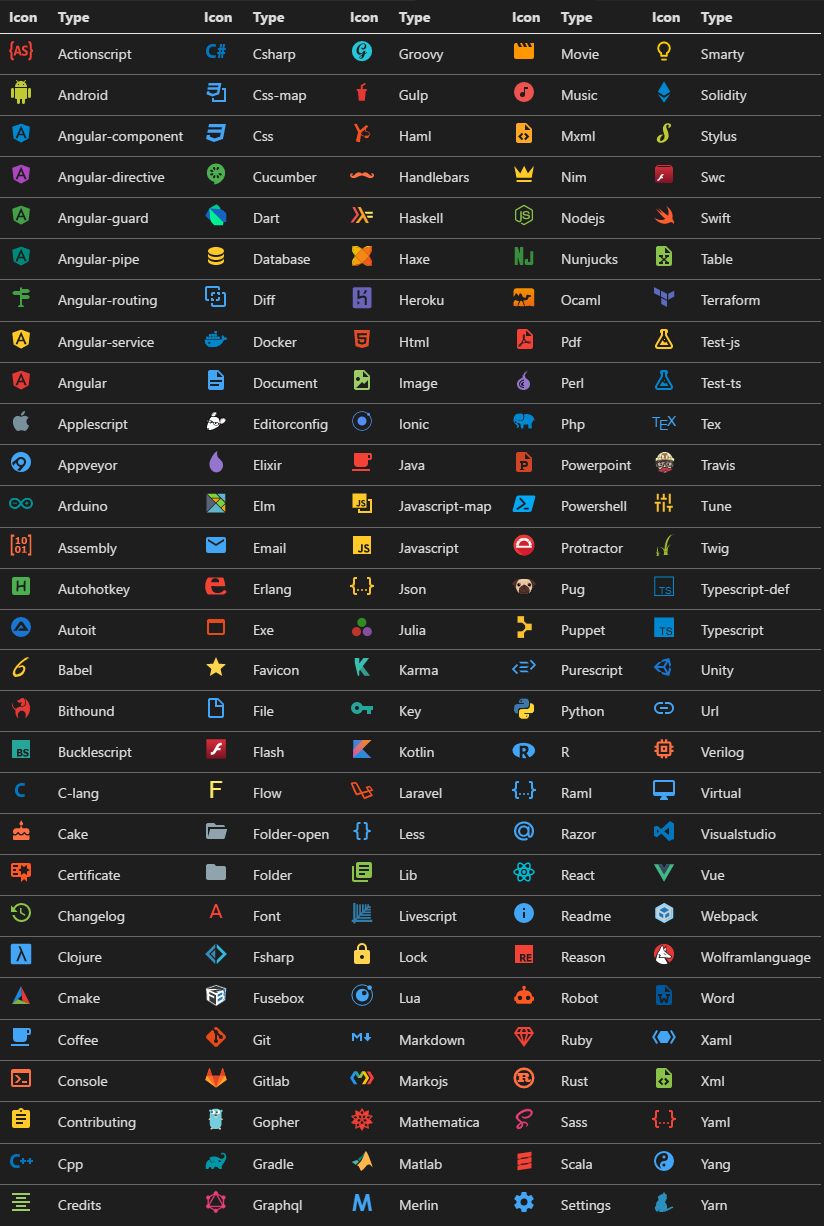
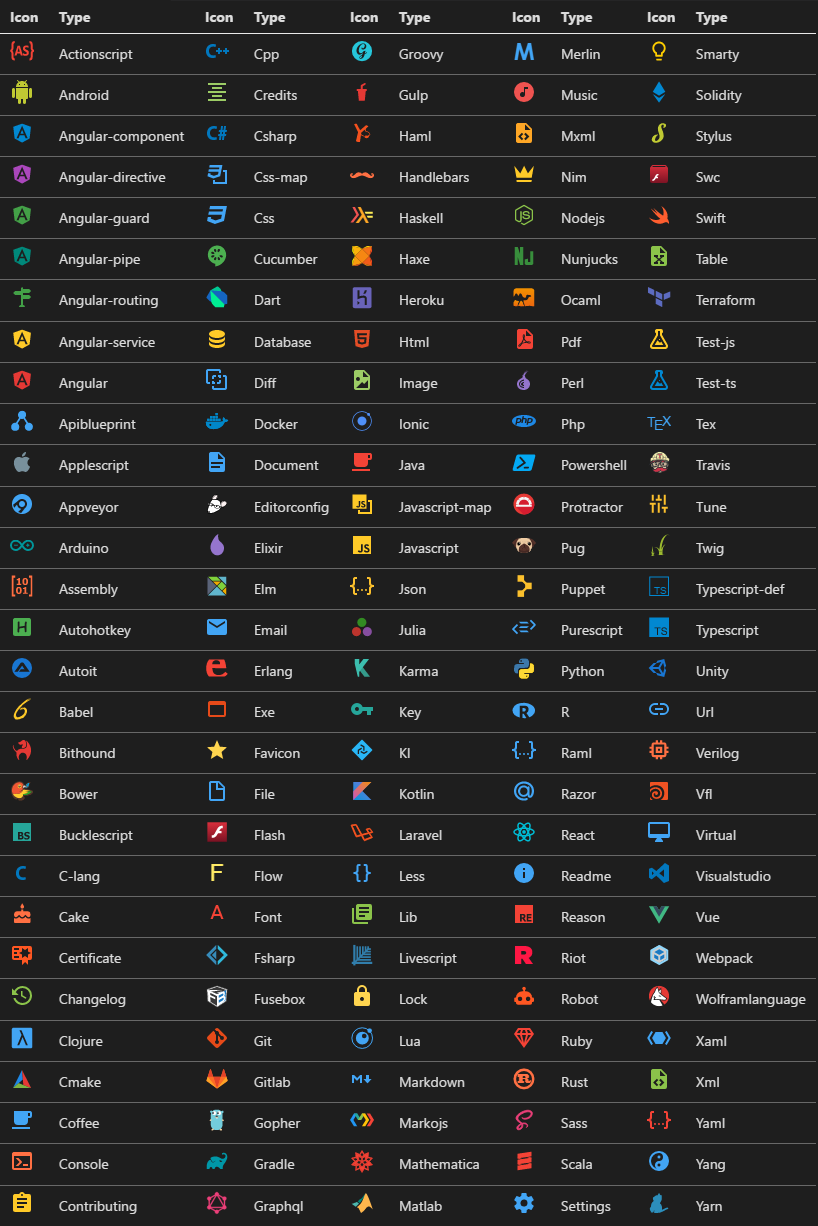
updated readme

diff --git a/images/lang-icons.md b/images/lang-icons.md
@@ -1,31 +1,31 @@
 |Icon|Type|Icon|Type|Icon|Type|Icon|Type|Icon|Type|
 |---|---|---|---|---|---|---|---|---|---|
-|<img src="./../icons/actionscript.svg" width="24px">|Actionscript|<img src="./../icons/cpp.svg" width="24px">|Cpp|<img src="./../icons/groovy.svg" width="24px">|Groovy|<img src="./../icons/merlin.svg" width="24px">|Merlin|<img src="./../icons/scala.svg" width="24px">|Scala|
-|<img src="./../icons/android.svg" width="24px">|Android|<img src="./../icons/credits.svg" width="24px">|Credits|<img src="./../icons/gulp.svg" width="24px">|Gulp|<img src="./../icons/movie.svg" width="24px">|Movie|<img src="./../icons/settings.svg" width="24px">|Settings|
-|<img src="./../icons/angular-component.svg" width="24px">|Angular-component|<img src="./../icons/csharp.svg" width="24px">|Csharp|<img src="./../icons/haml.svg" width="24px">|Haml|<img src="./../icons/music.svg" width="24px">|Music|<img src="./../icons/smarty.svg" width="24px">|Smarty|
-|<img src="./../icons/angular-directive.svg" width="24px">|Angular-directive|<img src="./../icons/css-map.svg" width="24px">|Css-map|<img src="./../icons/handlebars.svg" width="24px">|Handlebars|<img src="./../icons/mxml.svg" width="24px">|Mxml|<img src="./../icons/solidity.svg" width="24px">|Solidity|
-|<img src="./../icons/angular-guard.svg" width="24px">|Angular-guard|<img src="./../icons/css.svg" width="24px">|Css|<img src="./../icons/haskell.svg" width="24px">|Haskell|<img src="./../icons/nim.svg" width="24px">|Nim|<img src="./../icons/stylus.svg" width="24px">|Stylus|
-|<img src="./../icons/angular-pipe.svg" width="24px">|Angular-pipe|<img src="./../icons/cucumber.svg" width="24px">|Cucumber|<img src="./../icons/haxe.svg" width="24px">|Haxe|<img src="./../icons/nodejs.svg" width="24px">|Nodejs|<img src="./../icons/swc.svg" width="24px">|Swc|
-|<img src="./../icons/angular-routing.svg" width="24px">|Angular-routing|<img src="./../icons/dart.svg" width="24px">|Dart|<img src="./../icons/heroku.svg" width="24px">|Heroku|<img src="./../icons/nunjucks.svg" width="24px">|Nunjucks|<img src="./../icons/swift.svg" width="24px">|Swift|
-|<img src="./../icons/angular-service.svg" width="24px">|Angular-service|<img src="./../icons/database.svg" width="24px">|Database|<img src="./../icons/html.svg" width="24px">|Html|<img src="./../icons/ocaml.svg" width="24px">|Ocaml|<img src="./../icons/table.svg" width="24px">|Table|
-|<img src="./../icons/angular.svg" width="24px">|Angular|<img src="./../icons/diff.svg" width="24px">|Diff|<img src="./../icons/image.svg" width="24px">|Image|<img src="./../icons/pdf.svg" width="24px">|Pdf|<img src="./../icons/terraform.svg" width="24px">|Terraform|
-|<img src="./../icons/apiblueprint.svg" width="24px">|Apiblueprint|<img src="./../icons/docker.svg" width="24px">|Docker|<img src="./../icons/ionic.svg" width="24px">|Ionic|<img src="./../icons/perl.svg" width="24px">|Perl|<img src="./../icons/test-js.svg" width="24px">|Test-js|
-|<img src="./../icons/applescript.svg" width="24px">|Applescript|<img src="./../icons/document.svg" width="24px">|Document|<img src="./../icons/java.svg" width="24px">|Java|<img src="./../icons/php.svg" width="24px">|Php|<img src="./../icons/test-ts.svg" width="24px">|Test-ts|
-|<img src="./../icons/appveyor.svg" width="24px">|Appveyor|<img src="./../icons/editorconfig.svg" width="24px">|Editorconfig|<img src="./../icons/javascript-map.svg" width="24px">|Javascript-map|<img src="./../icons/powerpoint.svg" width="24px">|Powerpoint|<img src="./../icons/tex.svg" width="24px">|Tex|
-|<img src="./../icons/arduino.svg" width="24px">|Arduino|<img src="./../icons/elixir.svg" width="24px">|Elixir|<img src="./../icons/javascript.svg" width="24px">|Javascript|<img src="./../icons/powershell.svg" width="24px">|Powershell|<img src="./../icons/travis.svg" width="24px">|Travis|
-|<img src="./../icons/assembly.svg" width="24px">|Assembly|<img src="./../icons/elm.svg" width="24px">|Elm|<img src="./../icons/json.svg" width="24px">|Json|<img src="./../icons/protractor.svg" width="24px">|Protractor|<img src="./../icons/tune.svg" width="24px">|Tune|
-|<img src="./../icons/autohotkey.svg" width="24px">|Autohotkey|<img src="./../icons/email.svg" width="24px">|Email|<img src="./../icons/julia.svg" width="24px">|Julia|<img src="./../icons/pug.svg" width="24px">|Pug|<img src="./../icons/twig.svg" width="24px">|Twig|
-|<img src="./../icons/autoit.svg" width="24px">|Autoit|<img src="./../icons/erlang.svg" width="24px">|Erlang|<img src="./../icons/karma.svg" width="24px">|Karma|<img src="./../icons/puppet.svg" width="24px">|Puppet|<img src="./../icons/typescript-def.svg" width="24px">|Typescript-def|
-|<img src="./../icons/babel.svg" width="24px">|Babel|<img src="./../icons/exe.svg" width="24px">|Exe|<img src="./../icons/key.svg" width="24px">|Key|<img src="./../icons/purescript.svg" width="24px">|Purescript|<img src="./../icons/typescript.svg" width="24px">|Typescript|
-|<img src="./../icons/bithound.svg" width="24px">|Bithound|<img src="./../icons/favicon.svg" width="24px">|Favicon|<img src="./../icons/kl.svg" width="24px">|Kl|<img src="./../icons/python.svg" width="24px">|Python|<img src="./../icons/unity.svg" width="24px">|Unity|
-|<img src="./../icons/bower.svg" width="24px">|Bower|<img src="./../icons/file.svg" width="24px">|File|<img src="./../icons/kotlin.svg" width="24px">|Kotlin|<img src="./../icons/r.svg" width="24px">|R|<img src="./../icons/url.svg" width="24px">|Url|
-|<img src="./../icons/bucklescript.svg" width="24px">|Bucklescript|<img src="./../icons/flash.svg" width="24px">|Flash|<img src="./../icons/laravel.svg" width="24px">|Laravel|<img src="./../icons/raml.svg" width="24px">|Raml|<img src="./../icons/verilog.svg" width="24px">|Verilog|
-|<img src="./../icons/c-lang.svg" width="24px">|C-lang|<img src="./../icons/flow.svg" width="24px">|Flow|<img src="./../icons/less.svg" width="24px">|Less|<img src="./../icons/razor.svg" width="24px">|Razor|<img src="./../icons/vfl.svg" width="24px">|Vfl|
-|<img src="./../icons/cake.svg" width="24px">|Cake|<img src="./../icons/font.svg" width="24px">|Font|<img src="./../icons/lib.svg" width="24px">|Lib|<img src="./../icons/react.svg" width="24px">|React|<img src="./../icons/virtual.svg" width="24px">|Virtual|
-|<img src="./../icons/certificate.svg" width="24px">|Certificate|<img src="./../icons/fsharp.svg" width="24px">|Fsharp|<img src="./../icons/livescript.svg" width="24px">|Livescript|<img src="./../icons/readme.svg" width="24px">|Readme|<img src="./../icons/visualstudio.svg" width="24px">|Visualstudio|
-|<img src="./../icons/changelog.svg" width="24px">|Changelog|<img src="./../icons/fusebox.svg" width="24px">|Fusebox|<img src="./../icons/lock.svg" width="24px">|Lock|<img src="./../icons/reason.svg" width="24px">|Reason|<img src="./../icons/vue.svg" width="24px">|Vue|
-|<img src="./../icons/clojure.svg" width="24px">|Clojure|<img src="./../icons/git.svg" width="24px">|Git|<img src="./../icons/lua.svg" width="24px">|Lua|<img src="./../icons/riot.svg" width="24px">|Riot|<img src="./../icons/webpack.svg" width="24px">|Webpack|
-|<img src="./../icons/cmake.svg" width="24px">|Cmake|<img src="./../icons/gitlab.svg" width="24px">|Gitlab|<img src="./../icons/markdown.svg" width="24px">|Markdown|<img src="./../icons/robot.svg" width="24px">|Robot|<img src="./../icons/wolframlanguage.svg" width="24px">|Wolframlanguage|
-|<img src="./../icons/coffee.svg" width="24px">|Coffee|<img src="./../icons/gopher.svg" width="24px">|Gopher|<img src="./../icons/markojs.svg" width="24px">|Markojs|<img src="./../icons/ruby.svg" width="24px">|Ruby|<img src="./../icons/word.svg" width="24px">|Word|
-|<img src="./../icons/console.svg" width="24px">|Console|<img src="./../icons/gradle.svg" width="24px">|Gradle|<img src="./../icons/mathematica.svg" width="24px">|Mathematica|<img src="./../icons/rust.svg" width="24px">|Rust|<img src="./../icons/xaml.svg" width="24px">|Xaml|
-|<img src="./../icons/contributing.svg" width="24px">|Contributing|<img src="./../icons/graphql.svg" width="24px">|Graphql|<img src="./../icons/matlab.svg" width="24px">|Matlab|<img src="./../icons/sass.svg" width="24px">|Sass|<img src="./../icons/xml.svg" width="24px">|Xml|
+|<img src="./../icons/actionscript.svg" width="24px">|Actionscript|<img src="./../icons/cpp.svg" width="24px">|Cpp|<img src="./../icons/groovy.svg" width="24px">|Groovy|<img src="./../icons/merlin.svg" width="24px">|Merlin|<img src="./../icons/smarty.svg" width="24px">|Smarty|
+|<img src="./../icons/android.svg" width="24px">|Android|<img src="./../icons/credits.svg" width="24px">|Credits|<img src="./../icons/gulp.svg" width="24px">|Gulp|<img src="./../icons/music.svg" width="24px">|Music|<img src="./../icons/solidity.svg" width="24px">|Solidity|
+|<img src="./../icons/angular-component.svg" width="24px">|Angular-component|<img src="./../icons/csharp.svg" width="24px">|Csharp|<img src="./../icons/haml.svg" width="24px">|Haml|<img src="./../icons/mxml.svg" width="24px">|Mxml|<img src="./../icons/stylus.svg" width="24px">|Stylus|
+|<img src="./../icons/angular-directive.svg" width="24px">|Angular-directive|<img src="./../icons/css-map.svg" width="24px">|Css-map|<img src="./../icons/handlebars.svg" width="24px">|Handlebars|<img src="./../icons/nim.svg" width="24px">|Nim|<img src="./../icons/swc.svg" width="24px">|Swc|
+|<img src="./../icons/angular-guard.svg" width="24px">|Angular-guard|<img src="./../icons/css.svg" width="24px">|Css|<img src="./../icons/haskell.svg" width="24px">|Haskell|<img src="./../icons/nodejs.svg" width="24px">|Nodejs|<img src="./../icons/swift.svg" width="24px">|Swift|
+|<img src="./../icons/angular-pipe.svg" width="24px">|Angular-pipe|<img src="./../icons/cucumber.svg" width="24px">|Cucumber|<img src="./../icons/haxe.svg" width="24px">|Haxe|<img src="./../icons/nunjucks.svg" width="24px">|Nunjucks|<img src="./../icons/table.svg" width="24px">|Table|
+|<img src="./../icons/angular-routing.svg" width="24px">|Angular-routing|<img src="./../icons/dart.svg" width="24px">|Dart|<img src="./../icons/heroku.svg" width="24px">|Heroku|<img src="./../icons/ocaml.svg" width="24px">|Ocaml|<img src="./../icons/terraform.svg" width="24px">|Terraform|
+|<img src="./../icons/angular-service.svg" width="24px">|Angular-service|<img src="./../icons/database.svg" width="24px">|Database|<img src="./../icons/html.svg" width="24px">|Html|<img src="./../icons/pdf.svg" width="24px">|Pdf|<img src="./../icons/test-js.svg" width="24px">|Test-js|
+|<img src="./../icons/angular.svg" width="24px">|Angular|<img src="./../icons/diff.svg" width="24px">|Diff|<img src="./../icons/image.svg" width="24px">|Image|<img src="./../icons/perl.svg" width="24px">|Perl|<img src="./../icons/test-ts.svg" width="24px">|Test-ts|
+|<img src="./../icons/apiblueprint.svg" width="24px">|Apiblueprint|<img src="./../icons/docker.svg" width="24px">|Docker|<img src="./../icons/ionic.svg" width="24px">|Ionic|<img src="./../icons/php.svg" width="24px">|Php|<img src="./../icons/tex.svg" width="24px">|Tex|
+|<img src="./../icons/applescript.svg" width="24px">|Applescript|<img src="./../icons/document.svg" width="24px">|Document|<img src="./../icons/java.svg" width="24px">|Java|<img src="./../icons/powershell.svg" width="24px">|Powershell|<img src="./../icons/travis.svg" width="24px">|Travis|
+|<img src="./../icons/appveyor.svg" width="24px">|Appveyor|<img src="./../icons/editorconfig.svg" width="24px">|Editorconfig|<img src="./../icons/javascript-map.svg" width="24px">|Javascript-map|<img src="./../icons/protractor.svg" width="24px">|Protractor|<img src="./../icons/tune.svg" width="24px">|Tune|
+|<img src="./../icons/arduino.svg" width="24px">|Arduino|<img src="./../icons/elixir.svg" width="24px">|Elixir|<img src="./../icons/javascript.svg" width="24px">|Javascript|<img src="./../icons/pug.svg" width="24px">|Pug|<img src="./../icons/twig.svg" width="24px">|Twig|
+|<img src="./../icons/assembly.svg" width="24px">|Assembly|<img src="./../icons/elm.svg" width="24px">|Elm|<img src="./../icons/json.svg" width="24px">|Json|<img src="./../icons/puppet.svg" width="24px">|Puppet|<img src="./../icons/typescript-def.svg" width="24px">|Typescript-def|
+|<img src="./../icons/autohotkey.svg" width="24px">|Autohotkey|<img src="./../icons/email.svg" width="24px">|Email|<img src="./../icons/julia.svg" width="24px">|Julia|<img src="./../icons/purescript.svg" width="24px">|Purescript|<img src="./../icons/typescript.svg" width="24px">|Typescript|
+|<img src="./../icons/autoit.svg" width="24px">|Autoit|<img src="./../icons/erlang.svg" width="24px">|Erlang|<img src="./../icons/karma.svg" width="24px">|Karma|<img src="./../icons/python.svg" width="24px">|Python|<img src="./../icons/unity.svg" width="24px">|Unity|
+|<img src="./../icons/babel.svg" width="24px">|Babel|<img src="./../icons/exe.svg" width="24px">|Exe|<img src="./../icons/key.svg" width="24px">|Key|<img src="./../icons/r.svg" width="24px">|R|<img src="./../icons/url.svg" width="24px">|Url|
+|<img src="./../icons/bithound.svg" width="24px">|Bithound|<img src="./../icons/favicon.svg" width="24px">|Favicon|<img src="./../icons/kl.svg" width="24px">|Kl|<img src="./../icons/raml.svg" width="24px">|Raml|<img src="./../icons/verilog.svg" width="24px">|Verilog|
+|<img src="./../icons/bower.svg" width="24px">|Bower|<img src="./../icons/file.svg" width="24px">|File|<img src="./../icons/kotlin.svg" width="24px">|Kotlin|<img src="./../icons/razor.svg" width="24px">|Razor|<img src="./../icons/vfl.svg" width="24px">|Vfl|
+|<img src="./../icons/bucklescript.svg" width="24px">|Bucklescript|<img src="./../icons/flash.svg" width="24px">|Flash|<img src="./../icons/laravel.svg" width="24px">|Laravel|<img src="./../icons/react.svg" width="24px">|React|<img src="./../icons/virtual.svg" width="24px">|Virtual|
+|<img src="./../icons/c-lang.svg" width="24px">|C-lang|<img src="./../icons/flow.svg" width="24px">|Flow|<img src="./../icons/less.svg" width="24px">|Less|<img src="./../icons/readme.svg" width="24px">|Readme|<img src="./../icons/visualstudio.svg" width="24px">|Visualstudio|
+|<img src="./../icons/cake.svg" width="24px">|Cake|<img src="./../icons/font.svg" width="24px">|Font|<img src="./../icons/lib.svg" width="24px">|Lib|<img src="./../icons/reason.svg" width="24px">|Reason|<img src="./../icons/vue.svg" width="24px">|Vue|
+|<img src="./../icons/certificate.svg" width="24px">|Certificate|<img src="./../icons/fsharp.svg" width="24px">|Fsharp|<img src="./../icons/livescript.svg" width="24px">|Livescript|<img src="./../icons/riot.svg" width="24px">|Riot|<img src="./../icons/webpack.svg" width="24px">|Webpack|
+|<img src="./../icons/changelog.svg" width="24px">|Changelog|<img src="./../icons/fusebox.svg" width="24px">|Fusebox|<img src="./../icons/lock.svg" width="24px">|Lock|<img src="./../icons/robot.svg" width="24px">|Robot|<img src="./../icons/wolframlanguage.svg" width="24px">|Wolframlanguage|
+|<img src="./../icons/clojure.svg" width="24px">|Clojure|<img src="./../icons/git.svg" width="24px">|Git|<img src="./../icons/lua.svg" width="24px">|Lua|<img src="./../icons/ruby.svg" width="24px">|Ruby|<img src="./../icons/xaml.svg" width="24px">|Xaml|
+|<img src="./../icons/cmake.svg" width="24px">|Cmake|<img src="./../icons/gitlab.svg" width="24px">|Gitlab|<img src="./../icons/markdown.svg" width="24px">|Markdown|<img src="./../icons/rust.svg" width="24px">|Rust|<img src="./../icons/xml.svg" width="24px">|Xml|
+|<img src="./../icons/coffee.svg" width="24px">|Coffee|<img src="./../icons/gopher.svg" width="24px">|Gopher|<img src="./../icons/markojs.svg" width="24px">|Markojs|<img src="./../icons/sass.svg" width="24px">|Sass|<img src="./../icons/yaml.svg" width="24px">|Yaml|
+|<img src="./../icons/console.svg" width="24px">|Console|<img src="./../icons/gradle.svg" width="24px">|Gradle|<img src="./../icons/mathematica.svg" width="24px">|Mathematica|<img src="./../icons/scala.svg" width="24px">|Scala|<img src="./../icons/yang.svg" width="24px">|Yang|
+|<img src="./../icons/contributing.svg" width="24px">|Contributing|<img src="./../icons/graphql.svg" width="24px">|Graphql|<img src="./../icons/matlab.svg" width="24px">|Matlab|<img src="./../icons/settings.svg" width="24px">|Settings|<img src="./../icons/yarn.svg" width="24px">|Yarn|

diff --git a/README.md b/README.md
@@ -11,7 +11,19 @@
 
 The Material Icon Theme provides lots of icons based on Material Design for Visual Studio Code.
 
-![Icon set](https://raw.githubusercontent.com/PKief/vscode-material-icon-theme/master/images/iconset.png)
+### Language icons
+
+![Folder icons](https://raw.githubusercontent.com/PKief/vscode-material-icon-theme/master/images/lang-icons.png)
+
+### Folder icons
+
+![Folder icons](https://raw.githubusercontent.com/PKief/vscode-material-icon-theme/master/images/folder-icons.png)
+
+You have the possibility to change the folder icons:
+
+![Folder icons](https://raw.githubusercontent.com/PKief/vscode-material-icon-theme/master/images/set-folder-icons.gif)
+
+
 
 ## One-click activation
 After installation or update you can click on the 'Activate'-button to activate the icon theme, if you haven't already. The icons will be visible immediately.
@@ -30,14 +42,10 @@ Press `Ctrl-Shift-P` to open the command palette and type `Material Icons`.
 
 - **Toggle Angular Icons**: Show the Angular files either with specific icons or default language icons.
 
-- **Toggle Folder Icons**: Hide or show folder icons.
-
-You can also configure the icon theme in the user or workspace settings.
+- **Toggle Folder Icons**: Toggle folder icons.
 
 ## Icon sources
-* [https://design.google.com/icons/](https://design.google.com/icons/)
-* [https://materialdesignicons.com/](https://materialdesignicons.com/)
-* [https://github.com/jesseweed/seti-ui](https://github.com/jesseweed/seti-ui)
+* [Material Design Icons](https://materialdesignicons.com/)
 * official icons
 
 ## How to contribute

diff --git a/images/folder-icons.md b/images/folder-icons.md
@@ -1,9 +1,9 @@
 |Icon|Type|Icon|Type|
 |---|---|---|---|
+|<img src="./../icons/folder-blue.svg" width="24px">|Blue|<img src="./../icons/folder-node.svg" width="24px">|Node|
 |<img src="./../icons/folder-css.svg" width="24px">|Css|<img src="./../icons/folder-sass.svg" width="24px">|Sass|
 |<img src="./../icons/folder-docs.svg" width="24px">|Docs|<img src="./../icons/folder-scripts.svg" width="24px">|Scripts|
 |<img src="./../icons/folder-font.svg" width="24px">|Font|<img src="./../icons/folder-src.svg" width="24px">|Src|
 |<img src="./../icons/folder-git.svg" width="24px">|Git|<img src="./../icons/folder-test.svg" width="24px">|Test|
 |<img src="./../icons/folder-images.svg" width="24px">|Images|<img src="./../icons/folder-views.svg" width="24px">|Views|
 |<img src="./../icons/folder-js.svg" width="24px">|Js|<img src="./../icons/folder-vscode.svg" width="24px">|Vscode|
-|<img src="./../icons/folder-node.svg" width="24px">|Node|<img src="./../icons/folder.svg" width="24px">|Folder|
